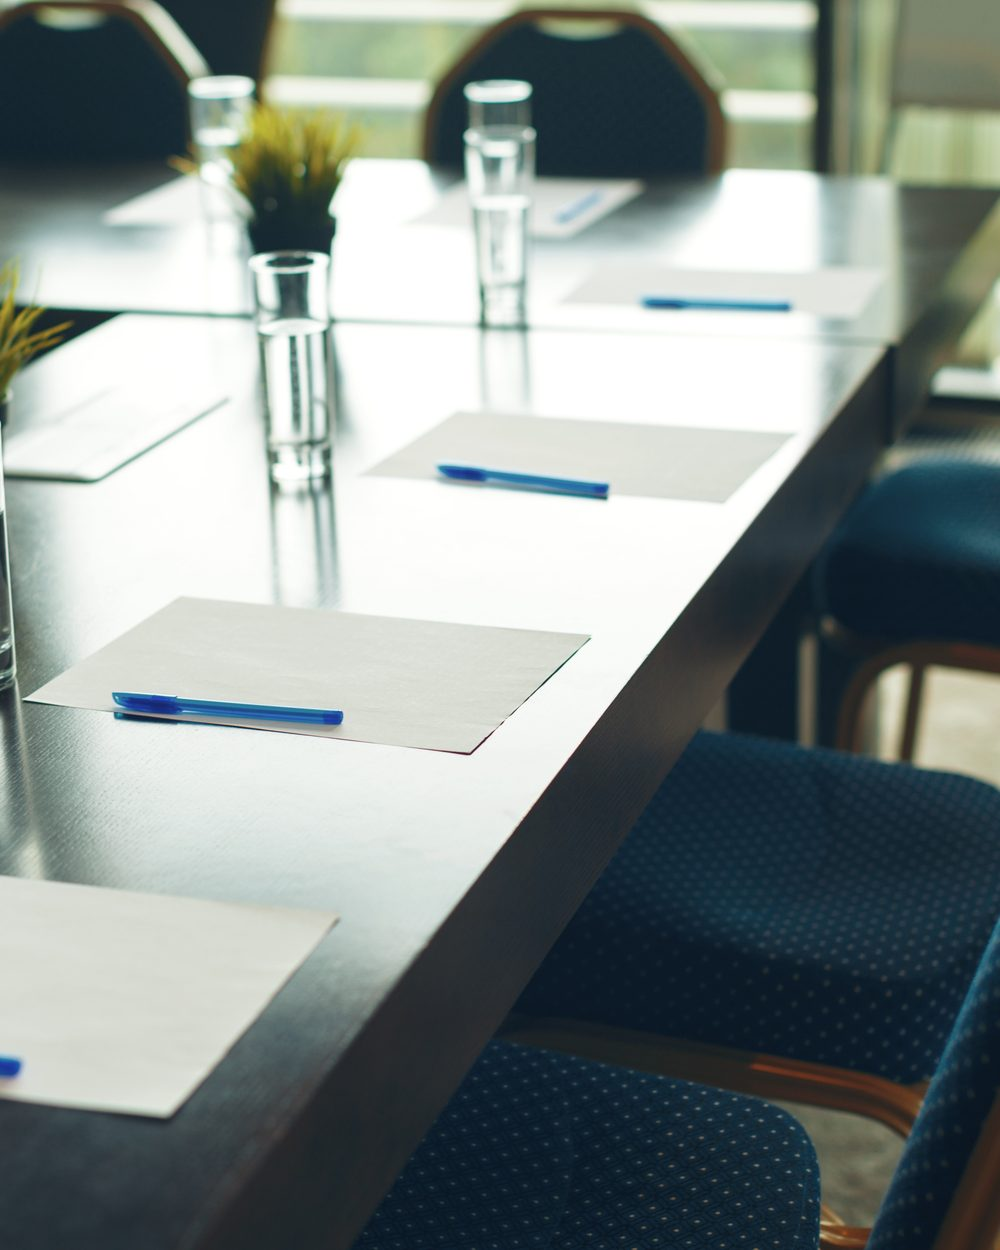
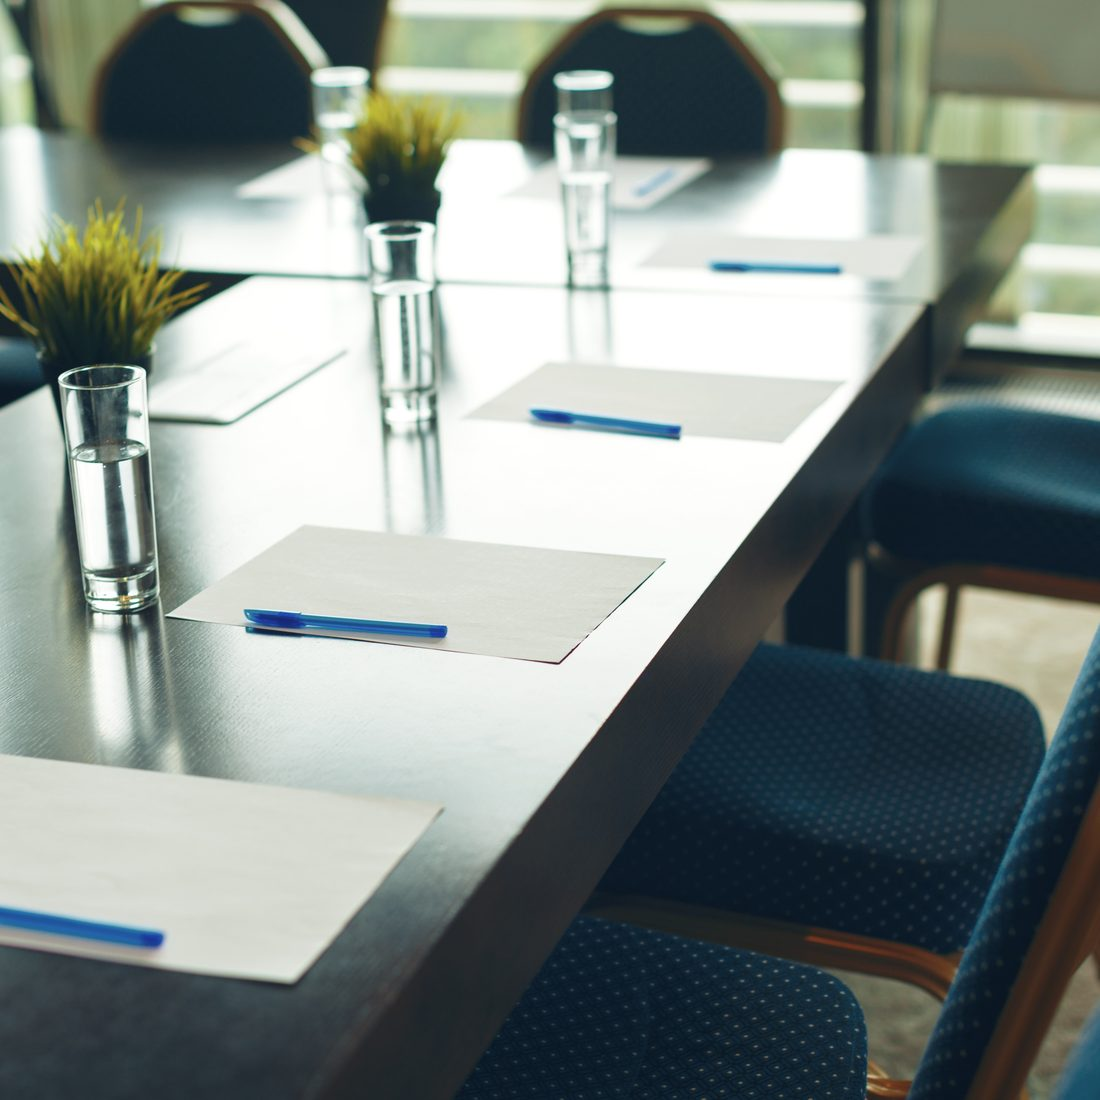
THE PROBLEM: heading to the left, and a wider crop on the image
POSITION

The eyebrow, headline and lede sat at the top of the right-hand column -
faithful to the reference, inconsistent with this site, where every other
section opens at the top left. They move to a full-width block above both
columns. Verified: eyebrow and image now share a left edge at 120px.

That also fixes the stacking order on a phone. The image used to be hidden
below 900px because stacking put a square frame above the first word; with
the heading above both columns the order reads heading, image, list, so the
image comes back on mobile.

THE IMAGE

Re-cropped. The 4:5 portrait was cut from a 3:2 original, which meant
keeping only 53% of the frame's width - the scene came out crowded, the
chairs sliced mid-frame. Square keeps 67%: the table reads end to end, the
chairs are whole, and the composition has air. 1100x1100, 102 KB.

Square also suits the new proportions. With the heading gone from the
right-hand column the list beside the image is 386px, so a 646px portrait
would have overhung it badly.

ALIGNMENT

.prob-list carried a 52px top margin that spaced it below the lede when the
lede sat directly above it. With the heading moved out, that margin only
pushed the list 52px below the top of the image beside it. Removed - both
now start at 377px.

Section is 1,284px at 1440 and 1,958px at 400, no horizontal overflow.
tsc, eslint and next build clean.

Claude-Session: https://claude.ai/code/session_016Q5WQySpwBWAaQgh6PEAAZ

diff --git a/app/globals.css b/app/globals.css
@@ -489,6 +489,7 @@ a{color:inherit;text-decoration:none}
 .prob-inner{max-width:1200px;margin:0 auto}
 /* No align-items:start. The visual column has to stretch to the row height
    or the sticky figure inside it has no distance to travel. */
+.prob-head{max-width:760px;margin-bottom:56px}
 .prob-grid{display:grid;grid-template-columns:minmax(0,46fr) minmax(0,54fr);gap:76px}
 
 /* Sticky so the diagram stays beside the list instead of scrolling away from
@@ -498,11 +499,12 @@ a{color:inherit;text-decoration:none}
 /* Square, and sharp-cornered on purpose — every other block on this page is
    a rounded card, so the one technical drawing reads as a different kind of
    object. */
-/* 4:5, not square. A square frame left about 300px of the left column
-   unused beside a much taller list; the portrait crop closes most of that.
-   The image fills it — object-fit:cover on a next/image needs the intrinsic
-   width/height overridden here. */
-.prob-vis-frame{aspect-ratio:4/5;border:1px solid var(--border);background:var(--surface);overflow:hidden}
+/* Square. The 4:5 portrait was cut from a 3:2 original, which meant keeping
+   only 53% of the frame's width — the scene came out crowded, with the
+   chairs sliced. Square keeps 67%, and now that the heading has moved out of
+   the right-hand column the list beside it is shorter, so a tall image would
+   overhang it anyway. */
+.prob-vis-frame{aspect-ratio:1;border:1px solid var(--border);background:var(--surface);overflow:hidden}
 .prob-vis-frame img{width:100%;height:100%;object-fit:cover;display:block}
 .prob-vis figcaption{margin-top:16px;font-family:var(--fm);font-size:var(--fz1);letter-spacing:.05em;color:var(--text3)}
 
@@ -510,10 +512,14 @@ a{color:inherit;text-decoration:none}
    defined later in this file and was winning on source order — the headline
    rendered at 44px with a 52px bottom margin instead of these. At 44px in a
    607px column it ran to three lines. */
-.prob-sec .prob-h2{font-size:var(--fz12);color:var(--text);letter-spacing:-.028em;line-height:1.14;margin:0 0 16px;text-wrap:balance}
+.prob-sec .prob-h2{font-size:var(--fz13);color:var(--text);letter-spacing:-.028em;line-height:1.14;margin:0 0 16px;text-wrap:balance}
 .prob-lede{font-size:var(--fz7);color:var(--text2);line-height:1.72;font-weight:400}
 
-.prob-list{list-style:none;margin:52px 0 0;padding:0;border-bottom:1px solid var(--border)}
+/* margin:0, not 52px on top. That margin spaced the list below the lede
+   when the lede sat directly above it; with the heading block moved out to
+   full width, it only pushed the list 52px below the top of the image
+   beside it. They start on the same line now. */
+.prob-list{list-style:none;margin:0;padding:0;border-bottom:1px solid var(--border)}
 .prob-row{border-top:1px solid var(--border)}
 /* The whole row is the control. Icon on the LEFT — the FAQ accordion four
    sections down puts its plus on the right, and that is most of what keeps
@@ -550,8 +556,13 @@ a{color:inherit;text-decoration:none}
      its whole argument in text. Stacked, a square frame costs ~350px of
      scroll before the reader reaches a single word, so it comes out below
      this width rather than being shrunk into illegibility. */
-  .prob-grid{grid-template-columns:1fr;gap:0}
-  .prob-vis{display:none}
+  /* The image stays on a phone now. It used to be hidden because the
+     heading lived in the right-hand column, so stacking put a square frame
+     above the first word; with the heading above both columns the order
+     reads heading, image, list. */
+  .prob-grid{grid-template-columns:1fr;gap:32px}
+  .prob-vis-stick{position:static}
+  .prob-head{margin-bottom:36px}
   .prob-turn{grid-template-columns:1fr;gap:18px;padding:32px 26px;margin-top:44px}
 }
 

diff --git a/app/page.tsx b/app/page.tsx
@@ -214,24 +214,30 @@ export default function Home() {
           the industry, not statistics about Rivago's clients. */}
       <section className="prob-sec">
         <div className="prob-inner">
-          {/* Two panels: the diagram on the left, the argument on the right.
-              The turn sits below both, full width, so it still reads as the
-              section changing sides rather than as a fifth item in the
-              right-hand column. */}
+          {/* The heading block sits full width above both columns, on the
+              left, because that is where the eyebrow and headline sit in
+              every other section on this page. It was inside the right-hand
+              column — faithful to the reference, inconsistent with the site.
+
+              It also fixes the stacking order on a phone: heading, then
+              image, then list, which is why the image no longer has to be
+              hidden below 900px. */}
+          <div className="prob-head">
+            <div className="eyebrow ew-light gs" style={{ marginBottom: 18 }}>The problem</div>
+            <h2 className="section-h2 prob-h2 gs">Four ways a search goes wrong, and the one reason underneath.</h2>
+            <p className="prob-lede gs">Not one of them is about the candidates.</p>
+          </div>
+
           <div className="prob-grid">
-            {/* The grid item stretches to the row height; the figure inside
-                it is what sticks. Sticky on the item itself does nothing —
-                an item that is already as tall as its container has nowhere
-                to travel. */}
             <div className="prob-vis">
               <figure className="prob-vis-stick">
                 <div className="prob-vis-frame">
                   <Image
                     src="/assets/problem-panel.jpg"
                     alt="A panel room set for interviews — blank paper and pens laid out along the table, every chair empty."
-                    width={1000}
-                    height={1250}
-                    sizes="(max-width: 900px) 0px, 46vw"
+                    width={1100}
+                    height={1100}
+                    sizes="(max-width: 900px) 92vw, 46vw"
                   />
                 </div>
                 <figcaption>Set for a panel. Still waiting on a shortlist.</figcaption>
@@ -239,12 +245,6 @@ export default function Home() {
             </div>
 
             <div className="prob-main">
-              <div className="eyebrow ew-light gs" style={{ marginBottom: 18 }}>The problem</div>
-              {/* No <br /> here any more. In a half-width column a forced
-                  break turned two lines into four; the headline wraps on its
-                  own now, balanced. */}
-              <h2 className="section-h2 prob-h2 gs">Four ways a search goes wrong, and the one reason underneath.</h2>
-              <p className="prob-lede gs">Not one of them is about the candidates.</p>
               <ProblemList />
             </div>
           </div>
